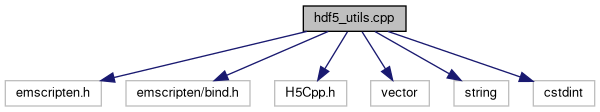
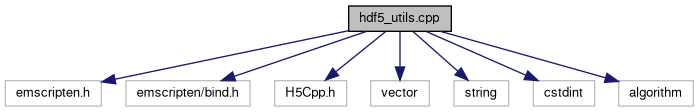
Deploying to gh-pages from @ jkanche/scran.js@833698f8e19ae6c449239524c03436869941d838 🚀

Changed region(s): [[0.0, 0.0268, 1.0, 0.9643], [0.36, 0.9375, 0.39, 0.9643]]

diff --git a/docs/wasm/hdf5__utils_8cpp.html b/docs/wasm/hdf5__utils_8cpp.html
@@ -79,18 +79,20 @@ $(function() {
 <code>#include &lt;vector&gt;</code><br />
 <code>#include &lt;string&gt;</code><br />
 <code>#include &lt;cstdint&gt;</code><br />
+<code>#include &lt;algorithm&gt;</code><br />
 </div><div class="textblock"><div class="dynheader">
 Include dependency graph for hdf5_utils.cpp:</div>
 <div class="dyncontent">
 <div class="center"><img src="hdf5__utils_8cpp__incl.png" border="0" usemap="#ahdf5__utils_8cpp" alt=""/></div>
 <map name="ahdf5__utils_8cpp" id="ahdf5__utils_8cpp">
-<area shape="rect" title="Utilities for reading and writing a HDF5 file." alt="" coords="303,5,406,32"/>
+<area shape="rect" title="Utilities for reading and writing a HDF5 file." alt="" coords="349,5,451,32"/>
 <area shape="rect" title=" " alt="" coords="5,80,101,107"/>
 <area shape="rect" title=" " alt="" coords="126,80,250,107"/>
 <area shape="rect" title=" " alt="" coords="275,80,347,107"/>
 <area shape="rect" title=" " alt="" coords="371,80,429,107"/>
 <area shape="rect" title=" " alt="" coords="454,80,509,107"/>
 <area shape="rect" title=" " alt="" coords="533,80,595,107"/>
+<area shape="rect" title=" " alt="" coords="619,80,693,107"/>
 </map>
 </div>
 </div><table class="memberdecls">

diff --git a/docs/H5File.html b/docs/H5File.html
@@ -1622,7 +1622,7 @@ A <a href="H5DataSet.html">H5DataSet</a> object is returned representing this ne
 <br class="clear">
 
 <footer>
-    Documentation generated by <a href="https://github.com/jsdoc/jsdoc">JSDoc 3.6.10</a> on Mon Mar 14 2022 07:08:45 GMT+0000 (Coordinated Universal Time)
+    Documentation generated by <a href="https://github.com/jsdoc/jsdoc">JSDoc 3.6.10</a> on Tue Mar 15 2022 05:30:00 GMT+0000 (Coordinated Universal Time)
 </footer>
 
 <script> prettyPrint(); </script>

diff --git a/docs/H5Group.html b/docs/H5Group.html
@@ -1628,7 +1628,7 @@ A <a href="H5DataSet.html">H5DataSet</a> object is returned representing this ne
 <br class="clear">
 
 <footer>
-    Documentation generated by <a href="https://github.com/jsdoc/jsdoc">JSDoc 3.6.10</a> on Mon Mar 14 2022 07:08:45 GMT+0000 (Coordinated Universal Time)
+    Documentation generated by <a href="https://github.com/jsdoc/jsdoc">JSDoc 3.6.10</a> on Tue Mar 15 2022 05:30:00 GMT+0000 (Coordinated Universal Time)
 </footer>
 
 <script> prettyPrint(); </script>

diff --git a/docs/LayeredSparseMatrix.html b/docs/LayeredSparseMatrix.html
@@ -1259,7 +1259,7 @@ Otherwise, <code>buffer</code> is filled with row <code>i</code> and nothing is 
 <br class="clear">
 
 <footer>
-    Documentation generated by <a href="https://github.com/jsdoc/jsdoc">JSDoc 3.6.10</a> on Mon Mar 14 2022 07:08:45 GMT+0000 (Coordinated Universal Time)
+    Documentation generated by <a href="https://github.com/jsdoc/jsdoc">JSDoc 3.6.10</a> on Tue Mar 15 2022 05:30:00 GMT+0000 (Coordinated Universal Time)
 </footer>
 
 <script> prettyPrint(); </script>

diff --git a/docs/ModelGeneVarResults.html b/docs/ModelGeneVarResults.html
@@ -1321,7 +1321,7 @@ containing the variance of log-expression across all cells in the specified <cod
 <br class="clear">
 
 <footer>
-    Documentation generated by <a href="https://github.com/jsdoc/jsdoc">JSDoc 3.6.10</a> on Mon Mar 14 2022 07:08:45 GMT+0000 (Coordinated Universal Time)
+    Documentation generated by <a href="https://github.com/jsdoc/jsdoc">JSDoc 3.6.10</a> on Tue Mar 15 2022 05:30:00 GMT+0000 (Coordinated Universal Time)
 </footer>
 
 <script> prettyPrint(); </script>

diff --git a/docs/NeighborSearchResults.html b/docs/NeighborSearchResults.html
@@ -1010,7 +1010,7 @@ This is usually the product of the number of neighbors and the number of cells.<
 <br class="clear">
 
 <footer>
-    Documentation generated by <a href="https://github.com/jsdoc/jsdoc">JSDoc 3.6.10</a> on Mon Mar 14 2022 07:08:45 GMT+0000 (Coordinated Universal Time)
+    Documentation generated by <a href="https://github.com/jsdoc/jsdoc">JSDoc 3.6.10</a> on Tue Mar 15 2022 05:30:00 GMT+0000 (Coordinated Universal Time)
 </footer>
 
 <script> prettyPrint(); </script>

diff --git a/docs/ScoreMarkersResults.html b/docs/ScoreMarkersResults.html
@@ -2210,7 +2210,7 @@ containing the mean expression for the requested group in the requested block.</
 <br class="clear">
 
 <footer>
-    Documentation generated by <a href="https://github.com/jsdoc/jsdoc">JSDoc 3.6.10</a> on Mon Mar 14 2022 07:08:45 GMT+0000 (Coordinated Universal Time)
+    Documentation generated by <a href="https://github.com/jsdoc/jsdoc">JSDoc 3.6.10</a> on Tue Mar 15 2022 05:30:00 GMT+0000 (Coordinated Universal Time)
 </footer>
 
 <script> prettyPrint(); </script>

diff --git a/docs/SparseMatrix.html b/docs/SparseMatrix.html
@@ -1000,7 +1000,7 @@ Otherwise, <code>buffer</code> is filled with row <code>i</code> and nothing is 
 <br class="clear">
 
 <footer>
-    Documentation generated by <a href="https://github.com/jsdoc/jsdoc">JSDoc 3.6.10</a> on Mon Mar 14 2022 07:08:45 GMT+0000 (Coordinated Universal Time)
+    Documentation generated by <a href="https://github.com/jsdoc/jsdoc">JSDoc 3.6.10</a> on Tue Mar 15 2022 05:30:00 GMT+0000 (Coordinated Universal Time)
 </footer>
 
 <script> prettyPrint(); </script>

diff --git a/docs/clusterKmeans.js.html b/docs/clusterKmeans.js.html
@@ -216,7 +216,7 @@ export function clusterKmeans(x, clusters, { numberOfDims = null, numberOfCells 
 <br class="clear">
 
 <footer>
-    Documentation generated by <a href="https://github.com/jsdoc/jsdoc">JSDoc 3.6.10</a> on Mon Mar 14 2022 07:08:45 GMT+0000 (Coordinated Universal Time)
+    Documentation generated by <a href="https://github.com/jsdoc/jsdoc">JSDoc 3.6.10</a> on Tue Mar 15 2022 05:30:00 GMT+0000 (Coordinated Universal Time)
 </footer>
 
 <script> prettyPrint(); </script>

diff --git a/docs/computePerCellQCFilters.js.html b/docs/computePerCellQCFilters.js.html
@@ -202,7 +202,7 @@ export function computePerCellQCFilters(metrics, { numberOfMADs = 3, block = nul
 <br class="clear">
 
 <footer>
-    Documentation generated by <a href="https://github.com/jsdoc/jsdoc">JSDoc 3.6.10</a> on Mon Mar 14 2022 07:08:45 GMT+0000 (Coordinated Universal Time)
+    Documentation generated by <a href="https://github.com/jsdoc/jsdoc">JSDoc 3.6.10</a> on Tue Mar 15 2022 05:30:00 GMT+0000 (Coordinated Universal Time)
 </footer>
 
 <script> prettyPrint(); </script>

diff --git a/docs/index.html b/docs/index.html
@@ -258,7 +258,7 @@ are based on the same C++ libraries and allow the same analysis to be performed 
 <br class="clear">
 
 <footer>
-    Documentation generated by <a href="https://github.com/jsdoc/jsdoc">JSDoc 3.6.10</a> on Mon Mar 14 2022 07:08:45 GMT+0000 (Coordinated Universal Time)
+    Documentation generated by <a href="https://github.com/jsdoc/jsdoc">JSDoc 3.6.10</a> on Tue Mar 15 2022 05:30:00 GMT+0000 (Coordinated Universal Time)
 </footer>
 
 <script> prettyPrint(); </script>

diff --git a/docs/labelCells.js.html b/docs/labelCells.js.html
@@ -534,7 +534,7 @@ export function integrateCellLabels(x, assigned, integrated, { buffer = null, nu
 <br class="clear">
 
 <footer>
-    Documentation generated by <a href="https://github.com/jsdoc/jsdoc">JSDoc 3.6.10</a> on Mon Mar 14 2022 07:08:45 GMT+0000 (Coordinated Universal Time)
+    Documentation generated by <a href="https://github.com/jsdoc/jsdoc">JSDoc 3.6.10</a> on Tue Mar 15 2022 05:30:00 GMT+0000 (Coordinated Universal Time)
 </footer>
 
 <script> prettyPrint(); </script>
